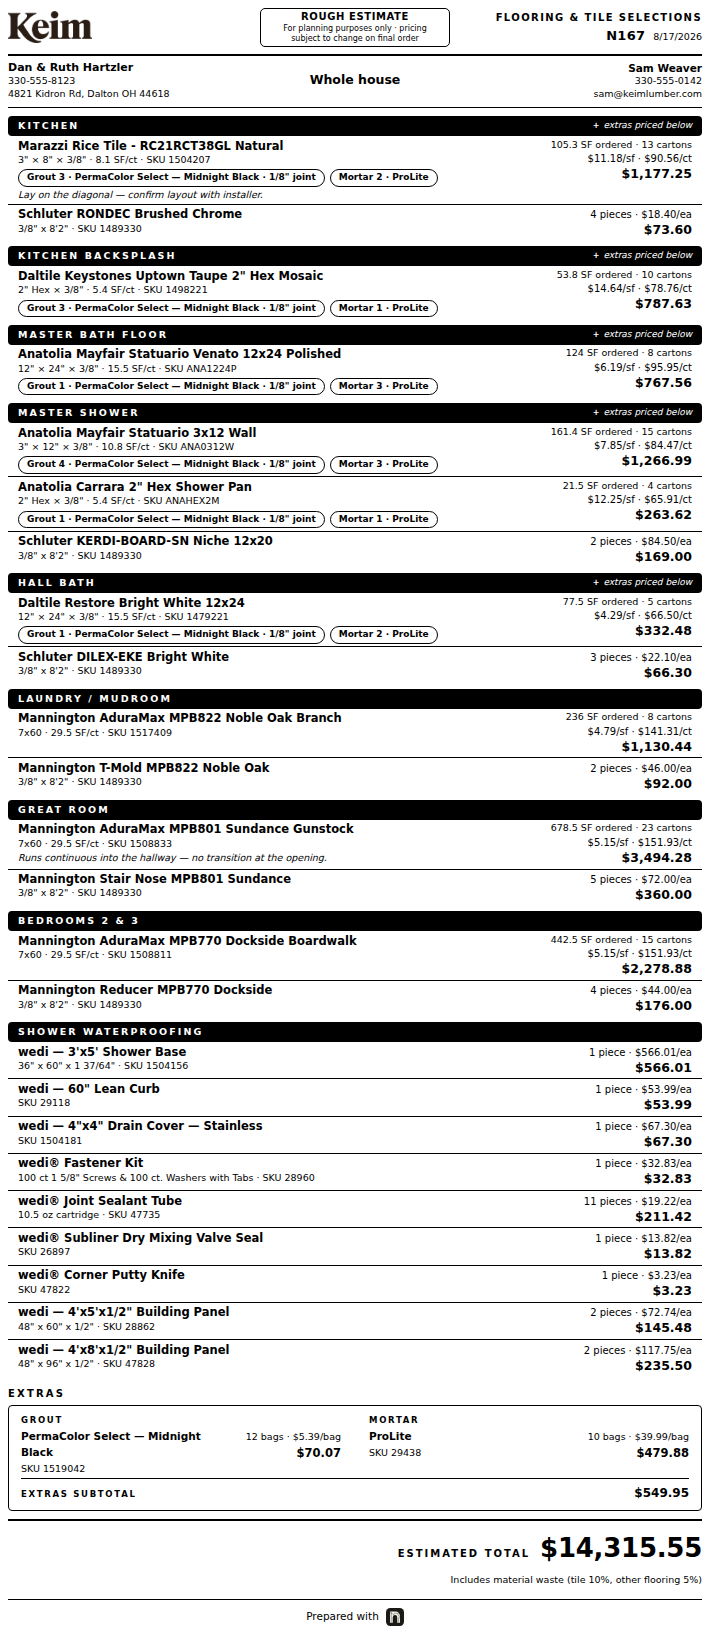
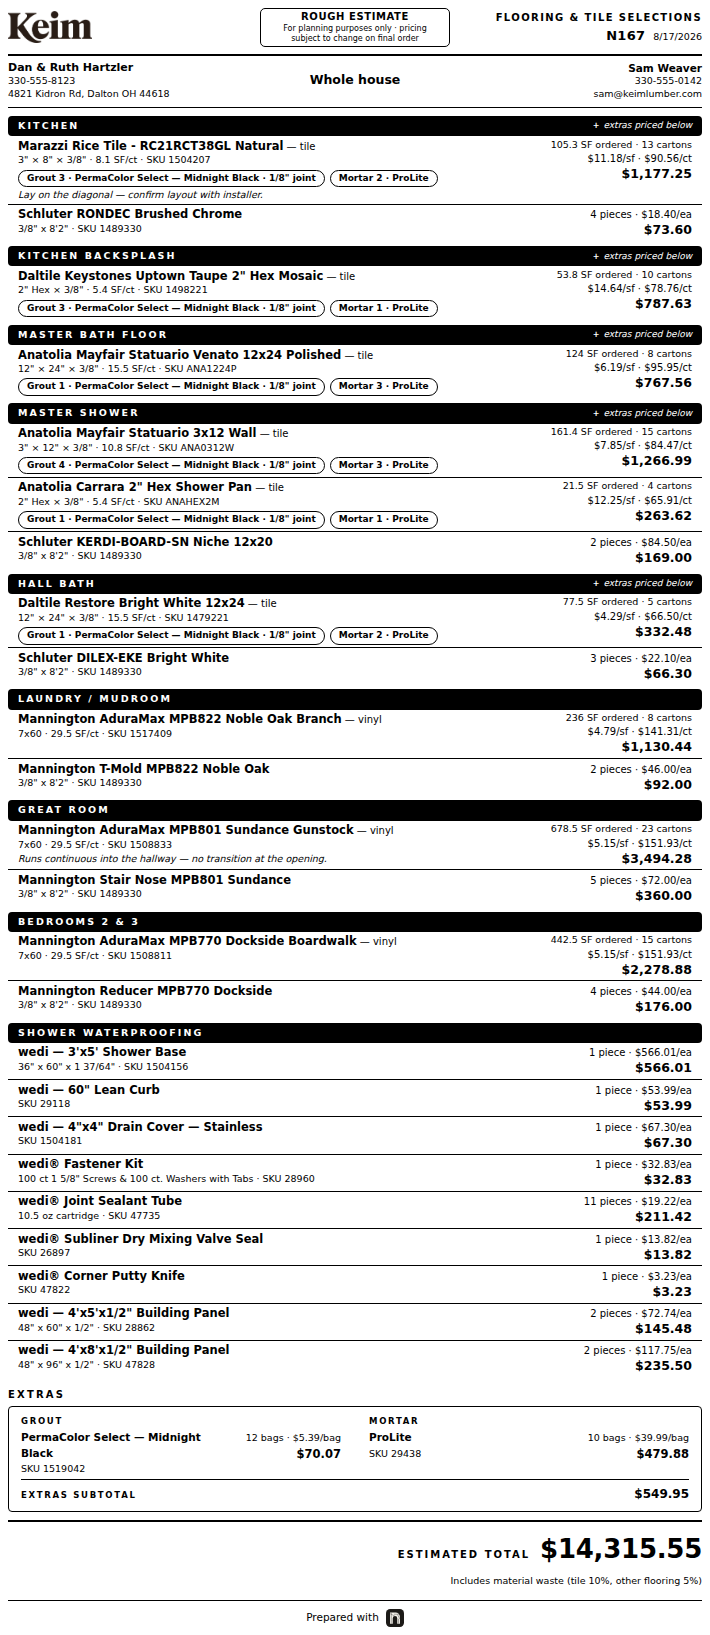
Print: keep type labels on product lines — only misc stays unlabeled
Owner follow-up: a real type (tile, vinyl) reads as information worth
printing; 'miscellaneous' reads as unimportant. The suffix returns for
every type except misc.

Claude-Session: https://claude.ai/code/session_018uPBeFJuC4Xyq3sBE89dBv

diff --git a/src/EstimatePrint.jsx b/src/EstimatePrint.jsx
@@ -211,7 +211,7 @@ export function EstimatePaper({ sel, people, profile, tv, jobWaste, pMats, tSet,
       return (
         <div key={p.id} className="flex justify-between" style={{ gap: 18, padding: "2.5px 10px", borderTop: pi > 0 ? "1px solid var(--ft-paper-rule)" : "none", breakInside: "avoid" }}>
           <div style={{ minWidth: 0 }}>
-            <div style={{ fontWeight: 800, fontSize: 11.5, lineHeight: 1.25 }}>{p.brandColor || typeLbl}</div>
+            <div style={{ fontWeight: 800, fontSize: 11.5, lineHeight: 1.25 }}>{p.brandColor || typeLbl}{p.brandColor && p.type !== "misc" && <span style={{ fontWeight: 500, fontSize: 10, color: "var(--ft-muted)" }}> — {typeLbl.toLowerCase()}</span>}</div>
             {specParts && <div style={{ fontSize: 9.5, lineHeight: 1.3, color: "var(--ft-muted)", marginTop: 1 }}>{specParts}</div>}
             {inline.length > 0 && (
               <div className="flex flex-wrap" style={{ gap: 5, marginTop: 3 }}>

diff --git a/.scratch/091_print-type-label-tighter/ticket.md b/.scratch/091_print-type-label-tighter/ticket.md
@@ -10,9 +10,11 @@ one-piece line reads "— miscellaneous" and costs a full card of vertical space
 
 ## Changes (src/EstimatePrint.jsx, cards layout only)
 
-- The "— tile / — miscellaneous / — vinyl" suffix after the product name is
-  gone. `TLBL[p.type]` still prints as the name when a row has no brandColor,
-  so an unnamed row doesn't go blank.
+- The "— miscellaneous" suffix after the product name is gone. The other type
+  labels STAY (owner follow-up, same day: "everything but the miscellaneous as
+  far as the labels can stay" — a real type reads as information, misc reads
+  as unimportant). `TLBL[p.type]` still prints as the name when a row has no
+  brandColor, so an unnamed row doesn't go blank.
 - Card vertical padding 4px → 2.5px; chip row margin 4 → 3; note margin 3 → 2;
   area block margin 7 → 5.
 - Explicit `lineHeight: 1.3` on the spec line, note, and every right-rail line
